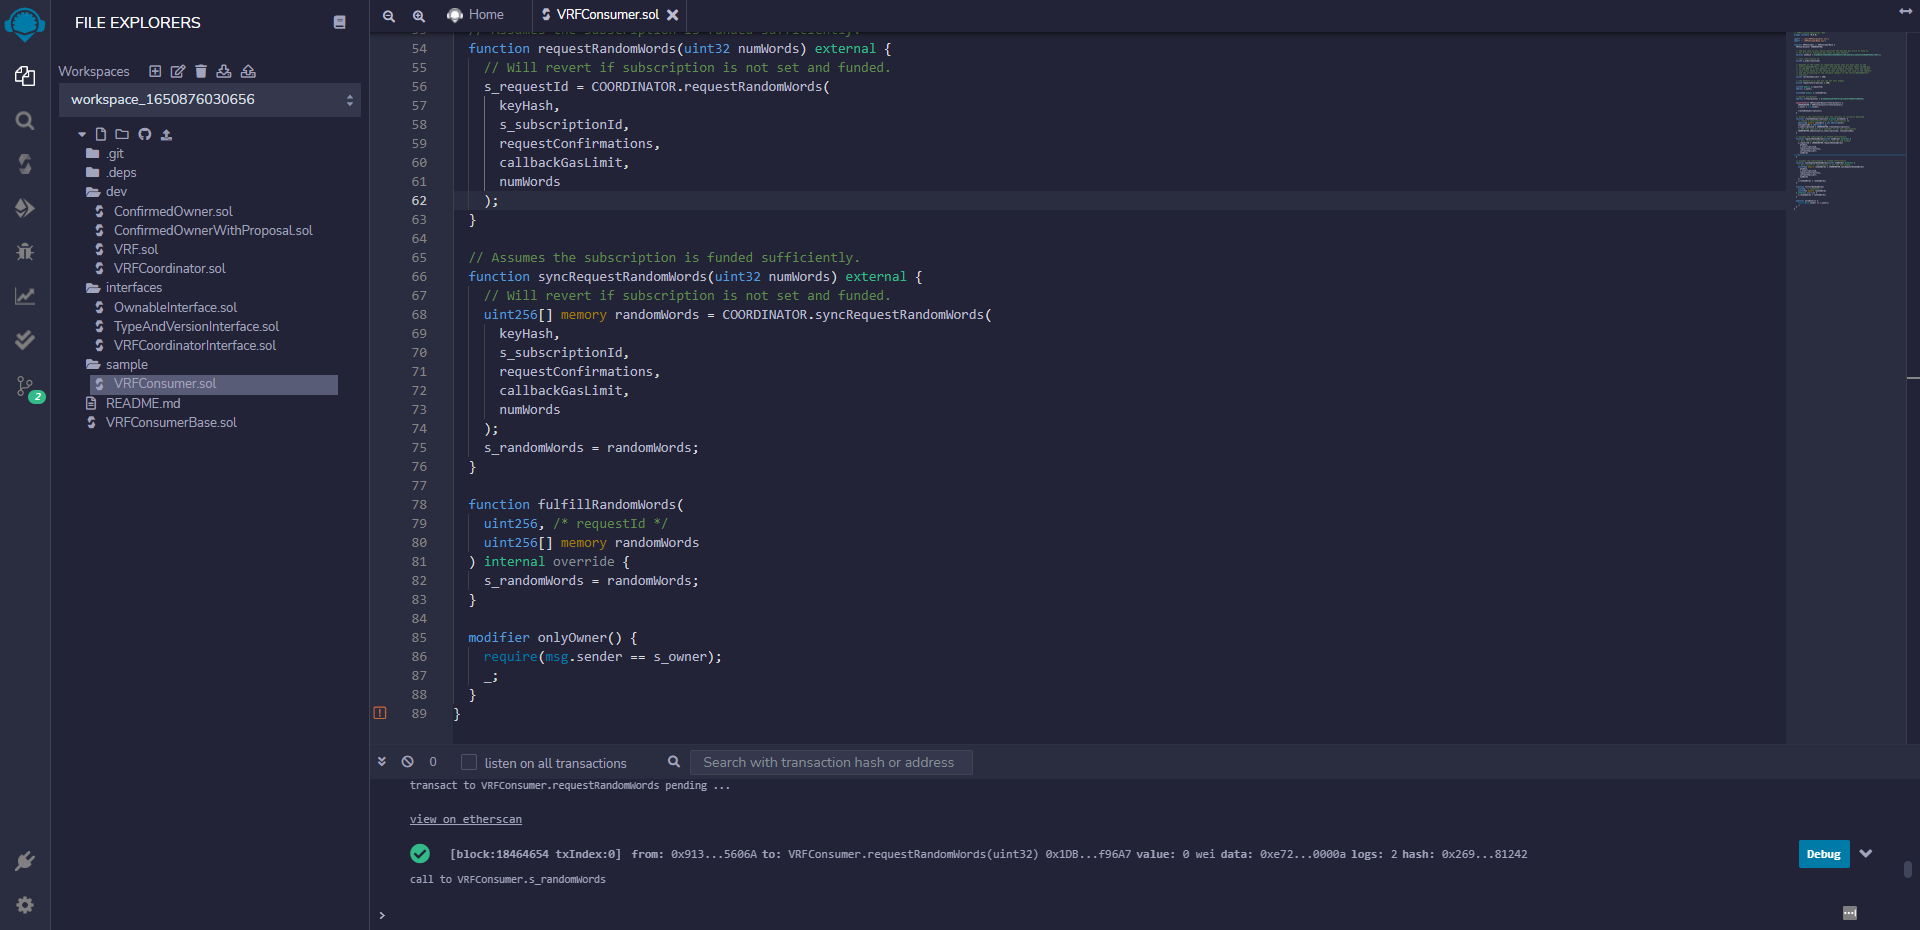
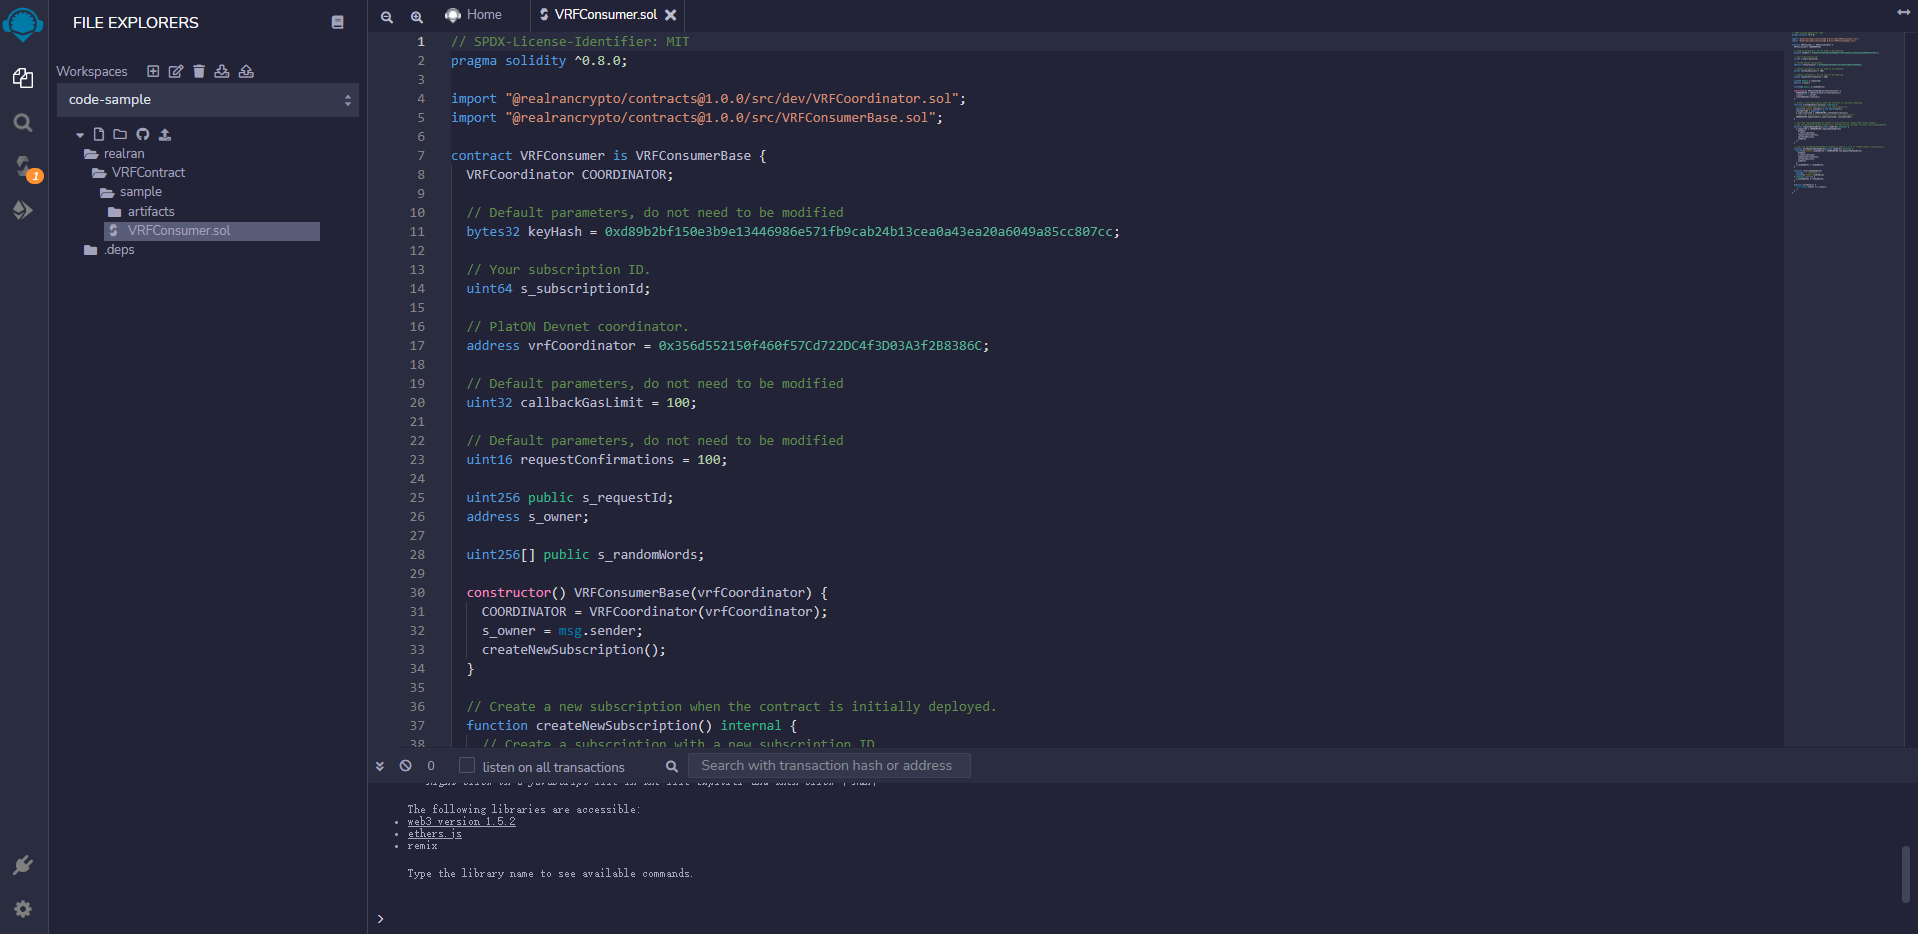
update

diff --git a/docs/Getting Started/Get a Random Number.md b/docs/Getting Started/Get a Random Number.md
@@ -13,13 +13,13 @@ One simple example is shown below to demonstrate how to use Remix IDE to deploy 
 
 ## MetaMask Setup
 
-MetaMask is the most widely used browser plug-in wallet and users can easily interact with PlatON Devnet and Mainnet. see the [MetaMask Configure PlatON/Alaya Network](https://devdocs.platon.network/docs/en/MetaMask/) to learn to use it.
+MetaMask is the most widely used browser plug-in wallet and users can easily interact with PlatON Devnet and Mainnet. See the [MetaMask Configure PlatON/Alaya Network](https://devdocs.platon.network/docs/en/MetaMask/) to learn to use it.
 
 ## Deploy a VRF consumer contract
 
 ### Import VRFContract Repo
 
-Open [Remix](https://remix.ethereum.org/) and import [VRFContract contracts](https://github.com/realran/VRFContract)
+Open the [VRFConsumer.sol](https://remix.ethereum.org/#url=https://github.com/realran/VRFContract/blob/main/sample/VRFConsumer.sol) contract in Remix.
 
 ![contracts_structure](./imgs/contracts_structure.png) 
 
@@ -69,8 +69,8 @@ The deployed `VRFConsumer` contract requests random values from `VRFCoordinator`
 // SPDX-License-Identifier: MIT
 pragma solidity ^0.8.0;
 
-import "../dev/VRFCoordinator.sol";
-import "../VRFConsumerBase.sol";
+import "@realrancrypto/contracts@1.0.0/src/dev/VRFCoordinator.sol";
+import "@realrancrypto/contracts@1.0.0/src/VRFConsumerBase.sol";
 
 contract VRFConsumer is VRFConsumerBase {
   VRFCoordinator COORDINATOR;
@@ -78,21 +78,16 @@ contract VRFConsumer is VRFConsumerBase {
   // PlatON DevNet coordinator. 
   address vrfCoordinator = 0x356d552150f460f57Cd722DC4f3D03A3f2B8386C;
   
-  // The gas lane to use, which specifies the maximum gas price to bump to.
+  // Default parameters, do not need to be modified.
   bytes32 keyHash = 0xd89b2bf150e3b9e13446986e571fb9cab24b13cea0a43ea20a6049a85cc807cc;
 
   // Your subscription ID.
   uint64 s_subscriptionId;
 
-  // Depends on the number of requested values that you want sent to the
-  // fulfillRandomWords() function. Storing each word costs about 20,000 gas,
-  // so 100,000 is a safe default for this example contract. Test and adjust
-  // this limit based on the network that you select, the size of the request,
-  // and the processing of the callback request in the fulfillRandomWords()
-  // function.
+  // Default parameters, do not need to be modified.
   uint32 callbackGasLimit = 100;
 
-  // The default is 3, but you can set this higher.
+  // Default parameters, do not need to be modified.
   uint16 requestConfirmations = 100;
 
   uint256 public s_requestId;
